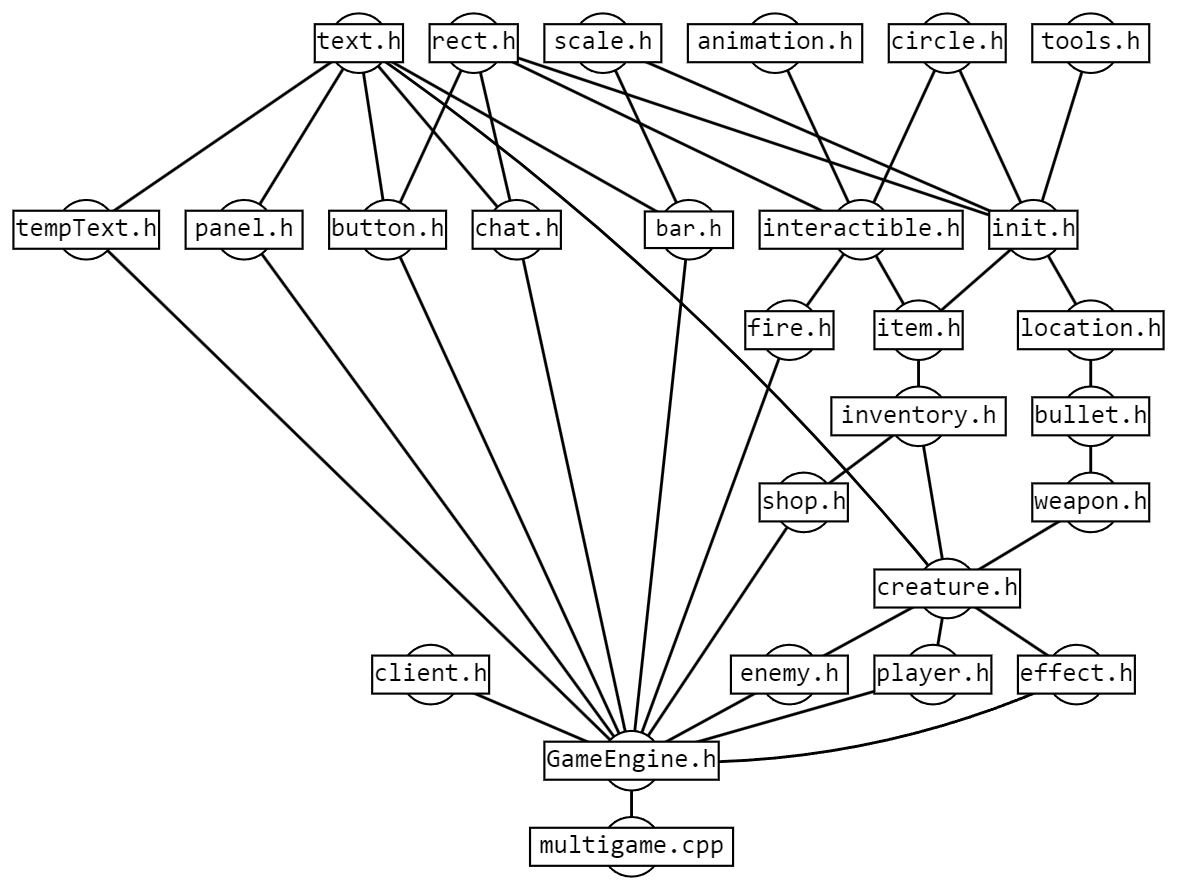
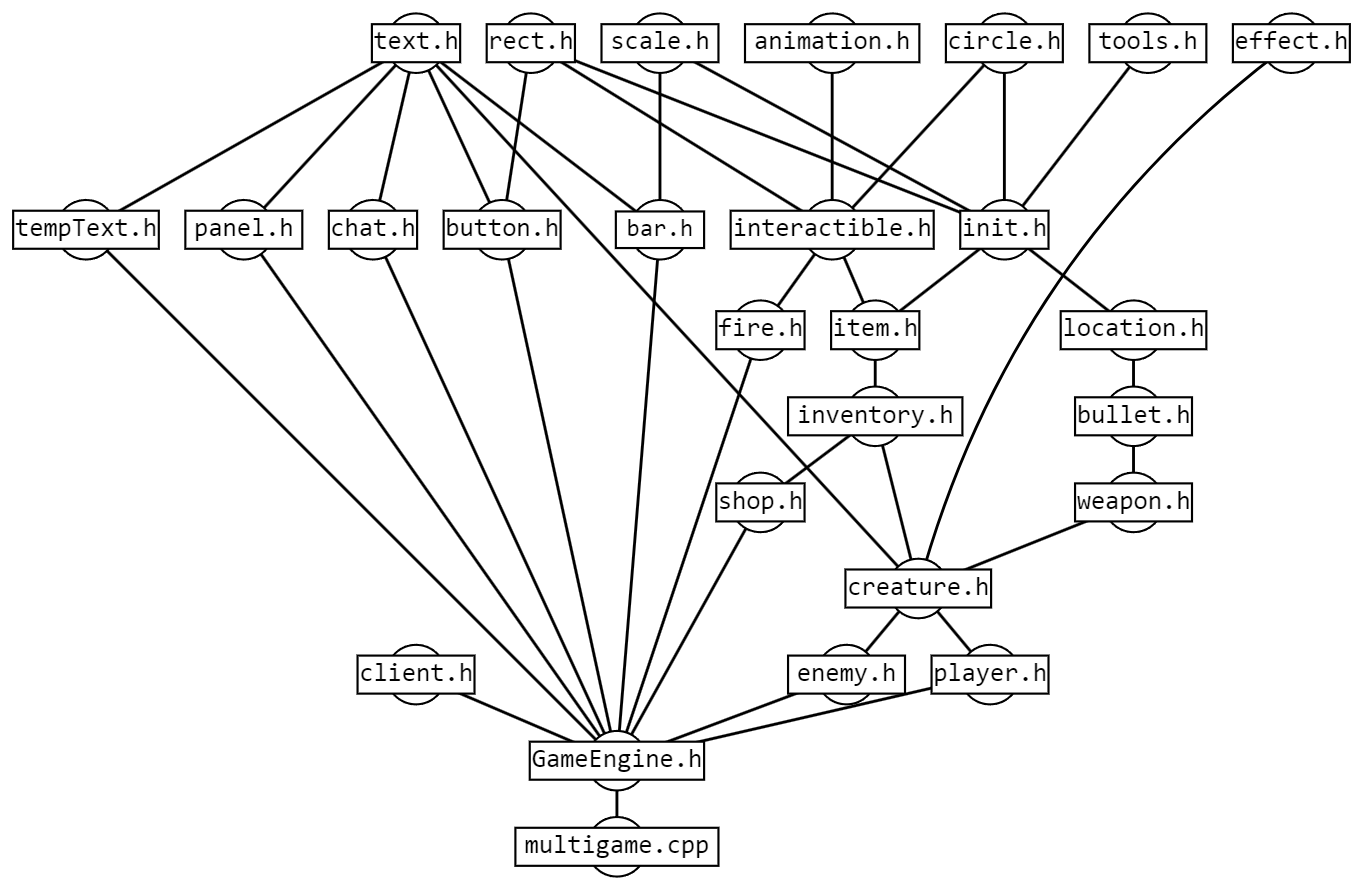
code refactore

diff --git a/Headers/GameEngine.h b/Headers/GameEngine.h
@@ -56,8 +56,8 @@ PlacedText WeaponNameText;
 PlacedText ReloadWeaponText;
 sf::Sprite XButtonSprite;
 
-std::vector<sf::Sprite*> effectIcons(Effects::NONE);
-std::vector<TempText*> effectIconsTimers(Effects::NONE);
+std::vector<sf::Sprite*> effectIcons(numberOfEffects);
+std::vector<TempText*> effectIconsTimers(numberOfEffects);
 
 
 //////////////////////////////////////////////////////////// InventoryStuff
@@ -473,7 +473,7 @@ void init() {
     undergroundBG.setPosition(0, 0);
     undergroundBG.setScale(scw / undergroundBG.getLocalBounds().width, sch / undergroundBG.getLocalBounds().height);
 
-    for (int i = 0; i < Effects::NONE; i++) {
+    for (int i = 0; i < numberOfEffects; i++) {
         effectIconsTimers[i] = new TempText(sf::Time::Zero);
         effectIcons[i] = new sf::Sprite();
     }
@@ -962,8 +962,8 @@ void drawInterface() {
 void drawEffects() {
     int count = 0;
     int xOffset = 175, yOffset = 175;
-    std::vector<int> seenEffects(Effects::NONE, 0);
-    std::vector<sf::Time> effectTimersTimes(Effects::NONE, sf::Time::Zero);
+    std::vector<int> seenEffects(numberOfEffects, 0);
+    std::vector<sf::Time> effectTimersTimes(numberOfEffects, sf::Time::Zero);
     for (Effect* eff : player.effects) {
         if (eff->type != Effects::Heal && eff->type != Effects::Damage && eff->active) {
             if (seenEffects[eff->type] == 0) {
@@ -976,7 +976,7 @@ void drawEffects() {
                 window.draw(*effectIcons[eff->type]);
             }
             seenEffects[eff->type] += 1;
-            effectTimersTimes[eff->type] = std::max(effectTimersTimes[eff->type], eff->secs);
+            effectTimersTimes[eff->type] = std::max(effectTimersTimes[eff->type], eff->howLongToExist);
 
             count++;
         }
@@ -1839,12 +1839,12 @@ void processEffects() {
 void updateEffects(Creature* creature) {
     std::vector<Effect*>& effectVec = creature->effects;
     for (int i = 0; i < effectVec.size(); i++) {
-        if (effectVec[i]->secs <= sf::Time::Zero) {
+        if (effectVec[i]->howLongToExist <= sf::Time::Zero) {
             clearEffect(*creature, effectVec[i]);
             DeletePointerFromVector(effectVec, i--);
         } else {
-            float t = std::min(effectVec[i]->localClock->restart().asSeconds(), effectVec[i]->secs.asSeconds());
-            effectVec[i]->secs -= sf::seconds(t);
+            float t = std::min(effectVec[i]->localClock->restart().asSeconds(), effectVec[i]->howLongToExist.asSeconds());
+            effectVec[i]->howLongToExist -= sf::seconds(t);
             switch (effectVec[i]->type) {
                 case Effects::Damage:
                     creature->getDamage(effectVec[i]->parameters[0] * t);
@@ -1953,9 +1953,9 @@ void fireUpdate() {
     float angle;
     for (int i = 0; i < FireSet.size(); i++) {
         float dist = 2.5 * FireSet[i]->Width;
-        if (FireSet[i]->localClock->getElapsedTime() >= FireSet[i]->secs) {
+        if (FireSet[i]->localClock->getElapsedTime() >= FireSet[i]->howLongToExist) {
             FireSet[i]->localClock->restart();
-            FireSet[i]->secs = sf::seconds(rand() % 4 + 15.f);
+            FireSet[i]->howLongToExist = sf::seconds(rand() % 4 + 15.f);
 
             Fire* descendant1 = new Fire(sf::seconds(rand() % 4 + 15.f));
             descendant1->setAnimation(Textures::Fire, 4, 1, sf::seconds(1), &Shaders::Map);

diff --git a/Headers/chat.h b/Headers/chat.h
@@ -1,7 +1,6 @@
 #pragma once
 #include "../SFML-2.5.1/include/SFML/Network.hpp"
 #include "text.h"
-#include "rect.h"
 
 #define SPACE_BETWEEN_LINES_IN_PIXELS 35
 #define CHARACTER_SIZE 27
@@ -11,8 +10,10 @@
 ////////////////////////////////////////////////////////////
 
 #pragma pack(push, 1)
-class Chat : public Rect, public sf::Drawable {
+class Chat : public sf::Drawable {
 public:
+    float PosX, PosY;
+    sf::Vector2f size;
     std::vector<sf::Clock*> clocks;
     std::map<sf::String, void (*)(void)> commands;
     PlacedText lines[11];
@@ -42,7 +43,7 @@ public:
 
 Chat::Chat(int scw, int sch) : inputted(false), start(0), len(11) {
     PosX = 350; PosY = sch - SPACE_BETWEEN_LINES_IN_PIXELS * (len + 2);
-    Width = scw - PosX * 2; Height = 35;
+    size.x = scw - PosX * 2; size.y = 35;
 
     for (int i = 0; i < len; i++) {
         lines[i].setCharacterSize(CHARACTER_SIZE);
@@ -57,10 +58,10 @@ Chat::Chat(int scw, int sch) : inputted(false), start(0), len(11) {
     rect.setOutlineColor(sf::Color::White);
     rect.setOutlineThickness(2);
     rect.setPosition(PosX, PosY + SPACE_BETWEEN_LINES_IN_PIXELS * len);
-    rect.setSize({Width, Height});
+    rect.setSize(size);
 
     cursor.setFillColor(sf::Color::White);
-    cursor.setSize({3, Height});
+    cursor.setSize({3, size.y});
 
     ChatEnable = true;
     localClock = new sf::Clock();

diff --git a/Headers/effect.h b/Headers/effect.h
@@ -10,6 +10,7 @@ namespace Effects {
         NONE,
     };
 };
+int numberOfEffects = Effects::NONE;
 
 class Effect {
 public:
@@ -19,14 +20,14 @@ public:
 
     sf::Clock* localClock = nullptr;
     sf::Clock* customTickClock = nullptr;
-    sf::Time secs;
+    sf::Time howLongToExist;
     sf::Time customTick;
 
-    Effect(Effects::Type type, std::vector<float> parameters, sf::Time secs, sf::Time customTick=sf::Time::Zero) {
+    Effect(Effects::Type type, std::vector<float> parameters, sf::Time howLongToExist, sf::Time customTick=sf::Time::Zero) {
         this->type = type;
         this->parameters = parameters;
         this->localClock = new sf::Clock();
-        this->secs = secs;
+        this->howLongToExist = howLongToExist;
         if (customTick != sf::Time::Zero) {
             this->customTick = customTick;
             this->customTickClock = new sf::Clock();

diff --git a/Headers/fire.h b/Headers/fire.h
@@ -4,11 +4,11 @@
 class Fire : public Interactable {
 public:
     sf::Clock* localClock = nullptr;
-    sf::Time secs;
+    sf::Time howLongToExist;
 
-    Fire(sf::Time secs) : Interactable() {
+    Fire(sf::Time howLongToExist) : Interactable() {
         this->localClock = new sf::Clock();
-        this->secs = secs;
+        this->howLongToExist = howLongToExist;
     }
     ~Fire() {
         if (localClock) {

diff --git a/Headers/creature.h b/Headers/creature.h
@@ -46,7 +46,7 @@ public:
         animation = nullptr;
         dropInventory = true;
 
-        effectStacks.assign(Effects::NONE, 0);
+        effectStacks.assign(numberOfEffects, 0);
     }
     ~Creature() {
         if (localClock) {
